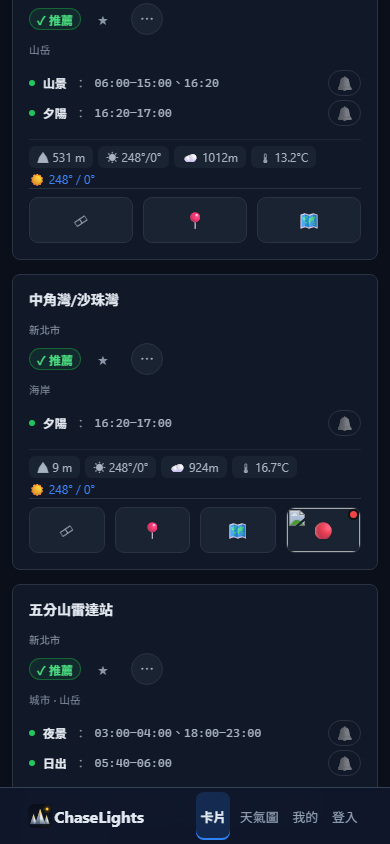
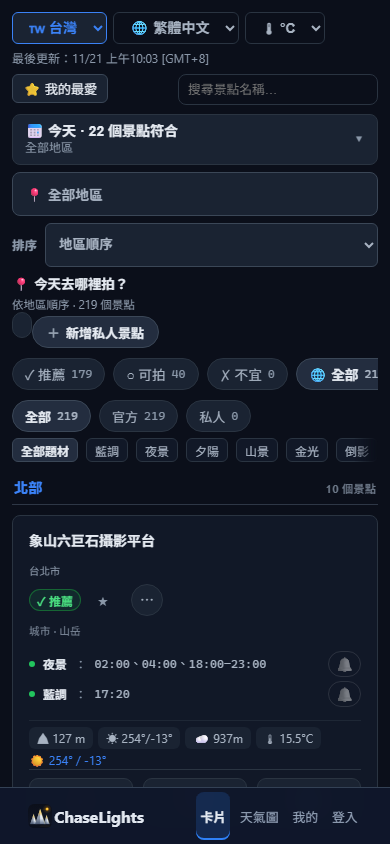
CL-UI-119: tw-001 大屯山助航站 joins LIVE — YMSNP/陽明山國家公園管理處 official stream
- live_cam.json: new tw-001 entry (video 6ghffcNt3Nw, YMSNP 即時影像專區「大屯自然公園」camera, mounted 大屯遊客服務站 looking at 大屯山主峰/助航站; oembed+isLive verified 2026-11-21 on official @ymsnpinfo channel) with provenance + honest note; per-entry verified_at on all six entries.
- Attribution moves per-entry: source_label_i18n on every entry (陽明山國家公園管理處 trilingual for tw-001, 北觀處 unchanged for the other five); openLiveModal prefers the entry's label, dictionary label stays fallback. UI otherwise data-driven — zero render-path change.
- Tests: cl-ui-111 CAM_IDS + tw-001 data assertions + per-entry label assertions + new H2b headless check (tw-001 panel renders 影像來源：陽明山國家公園管理處 + embed 6ghffcNt3Nw); re-anchored the attribution pin.
- Cache-bust: app.js stamp clui118→clui119 in index.html; 55 stamp pins re-anchored (monotonic family).

Verification: cl-ui-111 suite 14/14 green standalone AND in full suite (node-26 --test-isolation=none: 1078 tests / 1054 pass / 24 fail — all 24 attributed pre-existing on pristine origin/main bytes: browse-index sha pin stale on main, CL-APP-06 harness (2b re-verified failing at base), CL-UI-106 (2a) reads no ticket-touched file).

diff --git a/assets/app.js b/assets/app.js
@@ -2364,7 +2364,11 @@ const ad2=ad?.slice(5).replace('-', '/'),bd2=bd?.slice(5).replace('-', '/');cons
       const overlay=document.getElementById('live-modal-overlay');
       if(!overlay)return;
       document.getElementById('live-modal-title').textContent=`🔴 ${d().live_panel_title} · ${spotName(spot)}`;
-      document.getElementById('live-source-label').textContent=d().live_source_label;
+      // CL-UI-119: attribution is per-entry (agencies differ — 北觀處 vs
+      // 陽明山國家公園管理處); the entry's own trilingual label wins, the
+      // dictionary label stays the fallback for entries without one.
+      const perEntrySource=(cam.source_label_i18n&&((cam.source_label_i18n[currentLang])||cam.source_label_i18n['zh-TW']))||null;
+      document.getElementById('live-source-label').textContent=perEntrySource||d().live_source_label;
       const yt=document.getElementById('live-open-yt');
       yt.href=cam.watch_url||`https://www.youtube.com/watch?v=${encodeURIComponent(cam.video_id)}`;
       yt.textContent=d().live_open_youtube;

diff --git a/index.html b/index.html
@@ -171,7 +171,7 @@
   </div>
 
   <script src="./assets/site-nav.js?v=clui41"></script>
-  <script src="./assets/app.js?v=clui118"></script>
+  <script src="./assets/app.js?v=clui119"></script>
   <!-- CL-UI-100: rating chip / evaluation section / rate·report·comment flows. -->
   <script src="./assets/feedback-ui.js?v=clui102"></script>
   <!-- CL-UI-52: guest comment entry — footer-level, tertiary, never competes
